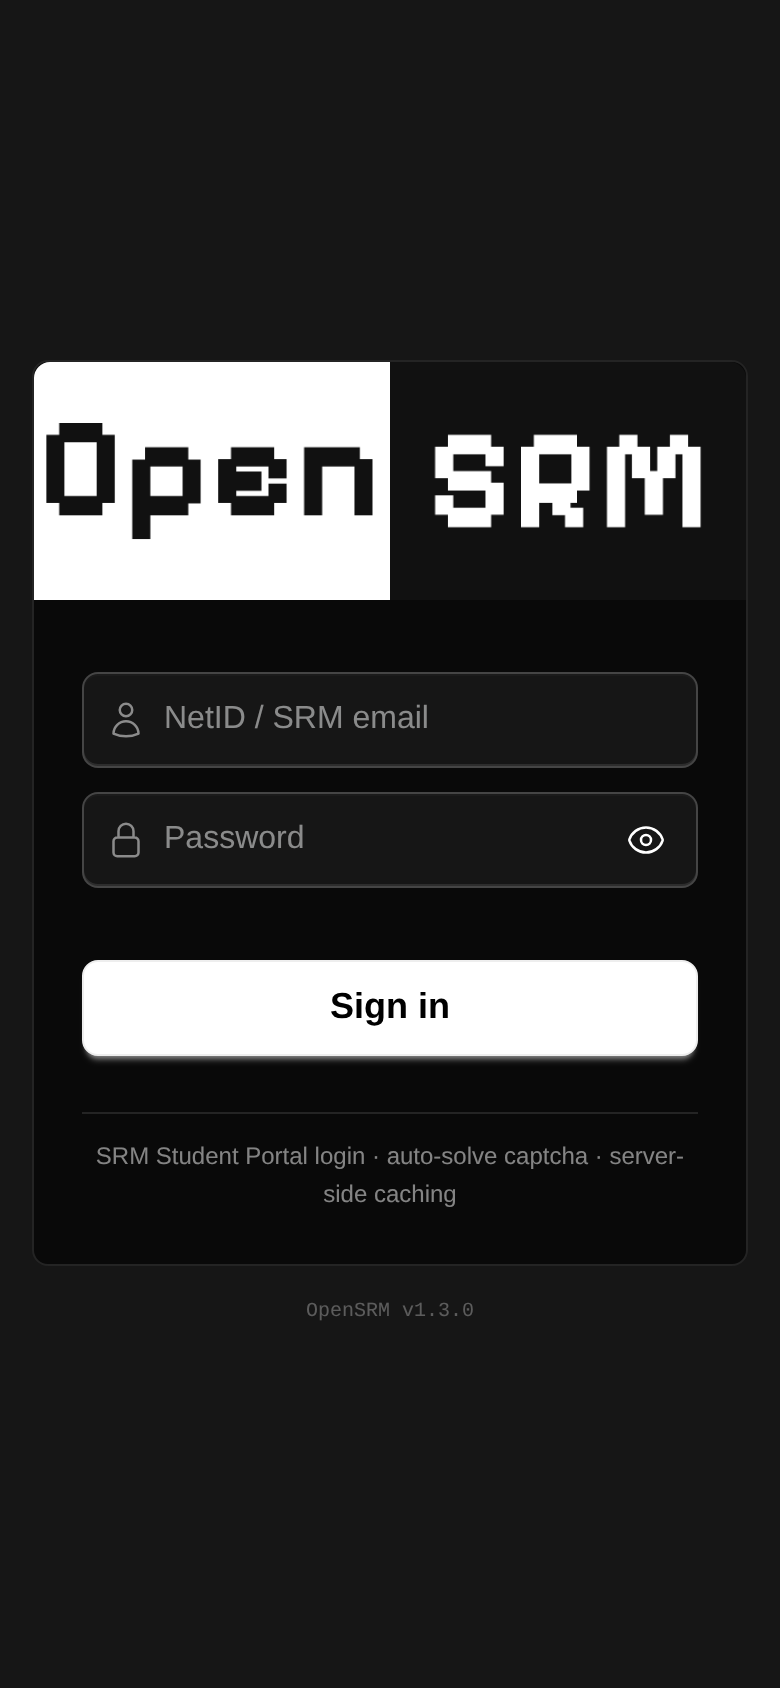
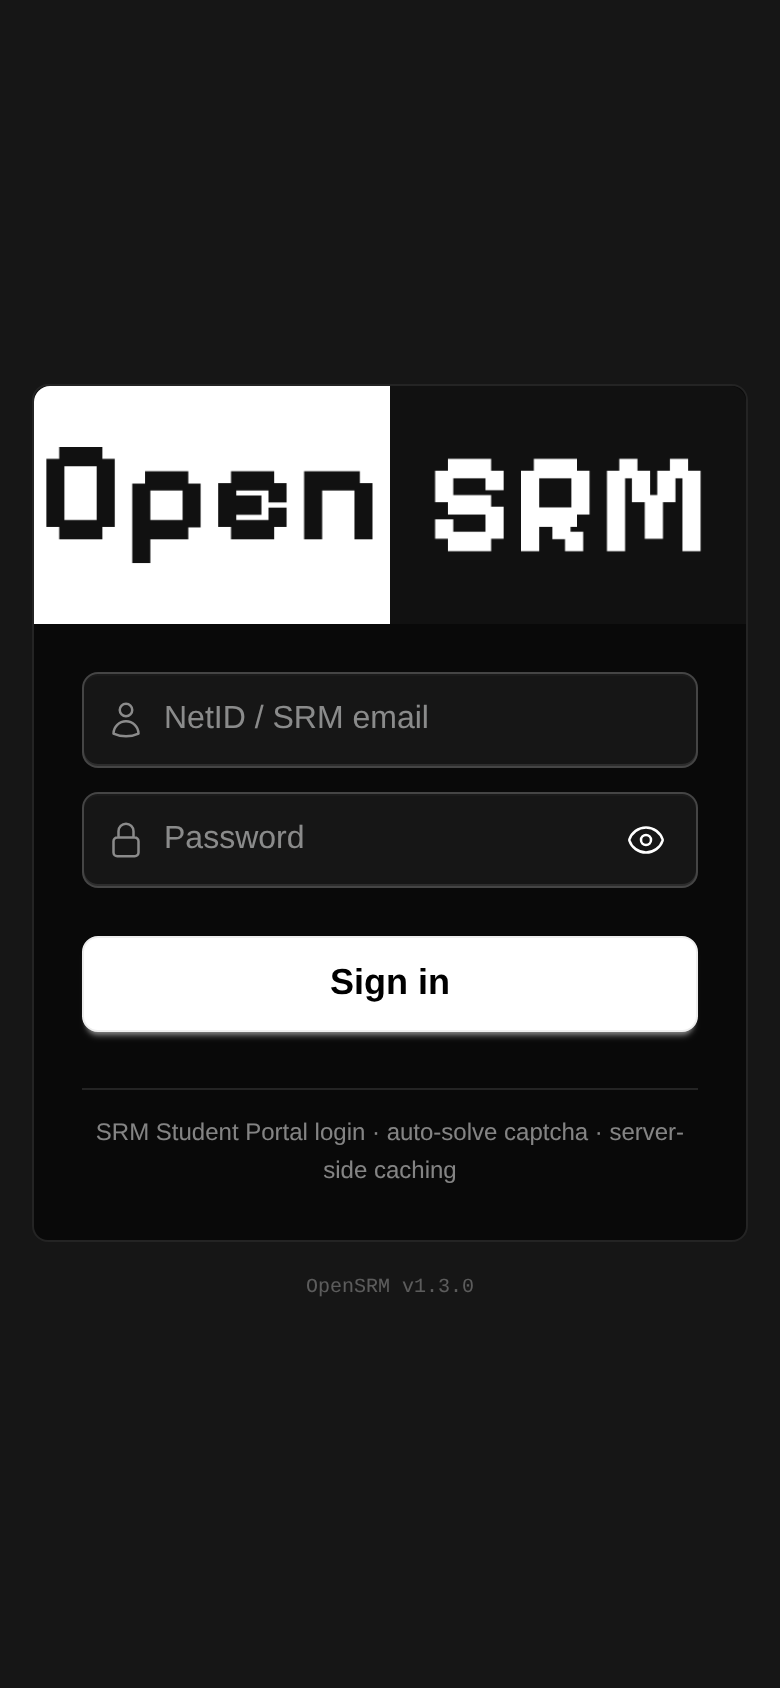
fix(login): make the group breaks adaptive to the screen, not a pinned 36px
Review: "it should be adaptive to screen, not concrete — just how daisyUI
makes it." The previous fix pinned `pt-9 sm:pt-9` = 36px on every screen,
which is the opposite of what daisyUI does — its card spacing is a token
that resizes (`--card-p: 1.5rem`, stepped by card-sm/md/lg), and this card
already steps its own padding at `sm` (`p-6 sm:p-8`).

Both group breaks now step together with that padding, and stay exactly
equal to each other at every breakpoint:

  brand band      pt-6 sm:pt-9   24px  ->  36px
  password -> Sign in   16px caps row + mt-2 sm:mt-5  24px  ->  36px
  section (unchanged)  Sign in -> footer text  40px  (still the loudest)

Desktop (>=640px) is untouched: still 36, which is the value reviewed and
approved. Below sm it tightens to 24 — the card's own mobile padding — so
the phone layout is no longer carrying desktop air.

Verified: rhythm audit now runs 390/768/1280 and asserts per-viewport the
rank order plus *exact* brand == action equality, and cross-viewport that
the tier steps (390: 24,24 != 1280: 36,36, monotonic), that 768 and 1280
agree (both sm+), and that nothing is pinned — 30/30 PASS. states.py 13/13,
verify76 70/71 (H2a pre-existing), ruff app/ + uv lock --check clean.
DESIGN §5 documents the stepped group break; only after-mobile.png changed
(desktop rendering identical byte-for-byte).

diff --git a/app/templates/login.html b/app/templates/login.html
@@ -41,10 +41,10 @@
           <img src="/static/logo-rect.png" alt="OpenSRM" width="400" height="120"
                class="w-full h-auto">
         </figure>
-        <!-- pt-9 (36px) = the brand band's group break: measured to match the
-               password -> Sign in break (16px reserved caps row + mt-5 20px = 36px),
-               so the two group breaks in the card are the same tier -->
-        <div class="card-body p-6 sm:p-8 pt-9 sm:pt-9">
+        <!-- Brand band group break: STEPS with the card's own padding (p-6 -> p-8),
+               never a pinned pixel. It tracks the password -> Sign in break exactly:
+               24px below sm (mt-2), 36px at sm+ (mt-5) + the 16px reserved caps row. -->
+        <div class="card-body p-6 sm:p-8 pt-6 sm:pt-9">
 
           <!-- Form. Vertical gaps are RANKED by relationship, never uniform
                (DESIGN §5 rhythm, Gestalt proximity): attached 0 < feedback 8
@@ -104,7 +104,8 @@
 
             <!-- Submit button: mt-5 (20px) — the credential group ends here,
                  the action is a different group (DESIGN §5 "mb-5 between blocks") -->
-            <button type="submit" id="b" class="btn btn-accent btn-lg w-full mt-5">
+            <!-- group break: 8px below sm (16 caps row + 8 = 24), 20px at sm+ (16 + 20 = 36) -->
+            <button type="submit" id="b" class="btn btn-accent btn-lg w-full mt-2 sm:mt-5">
               <span class="loading loading-spinner loading-sm hidden" id="loginSpinner"></span>
               <span id="btnLabel">Sign in</span>
             </button>

diff --git a/DESIGN.md b/DESIGN.md
@@ -385,7 +385,7 @@ Meaning map: current class = `success` border + 8% tint + "Now" badge · next/so
 
 - **Mobile-first single column.** Dashboard container `max-w-3xl mx-auto px-4 py-5`. Login is a centered card, `w-full max-w-md`, on `min-h-[100dvh]`.
 - **Rhythm (the 4px scale, in use):** `gap-2` / `gap-3` inside and between cards · `mb-5` between blocks · card padding `p-4` (`p-5` for the hero, `p-0` for list cards). Don't introduce new spacing values.
-- **Vertical gaps are RANKED by relationship, never uniform** (Gestalt proximity — equal gaps everywhere give consistency without hierarchy). Same 4px scale, ordered tight → loose: **0** attached (a field and its own hint/error) → **`gap-2` 8px** feedback that reports on one element (status under its button) → **`gap-3` 12px** peers inside a group (field ↔ field) → **group break**, sized per card: `mb-5` 20px between content blocks — and in the login card **36px**, because its two group breaks (the brand band `pt-9`, and password → Sign in = 16px reserved Caps row + `mt-5`) must measure the same → **section break**, looser than every group break (login card: 40px whitespace + rule + `pt-3`). A card must show ≥3 of these tiers in order. Horizontal gutters stay uniform — the column is one unit — and card padding must stay larger than the gaps inside it. Worked example: the login card, audited end-to-end as **0 < 8 < 12 < 36 < 40**.
+- **Vertical gaps are RANKED by relationship, never uniform** (Gestalt proximity — equal gaps everywhere give consistency without hierarchy). Same 4px scale, ordered tight → loose: **0** attached (a field and its own hint/error) → **`gap-2` 8px** feedback that reports on one element (status under its button) → **`gap-3` 12px** peers inside a group (field ↔ field) → **group break**, sized per card **and stepped, never pinned**: `mb-5` 20px between content blocks — and in the login card the two group breaks (the brand band, and password → Sign in = 16px reserved Caps row + the button's margin) step *together* with the card's own `p-6 sm:p-8` padding: **24px below `sm`, 36px at `sm`+ — equal to each other at every breakpoint** (same idea as daisyUI's `--card-p`, a token that resizes instead of a fixed pixel) → **section break**, looser than every group break (login card: 40px whitespace + rule + `pt-3`). A card must show ≥3 of these tiers in order. Horizontal gutters stay uniform — the column is one unit — and card padding must stay larger than the gaps inside it. Worked example: the login card, audited at 390/768/1280 as **0 < 8 < 12 < 24|36 < 40** (the `24|36` tier is the adaptive one).
 - **Section headings:** `text-base font-semibold mb-3`.
 - **Breakpoints:** design at 375px first. `sm` (640) switches the course grid to 2 columns and reveals the "Refresh" label. `lg` (1024) goes to 3 columns. The content column never grows past `max-w-3xl`.
 - **Touch targets ≥ 44px** for anything a thumb must hit (README requirement). `btn` is 40px and `btn-sm` 32px, which is acceptable for toolbar actions only; use `btn-lg` (48px) or `min-h-11` for main actions and tappable rows.
